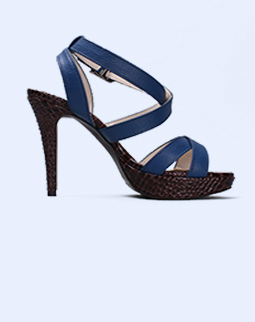
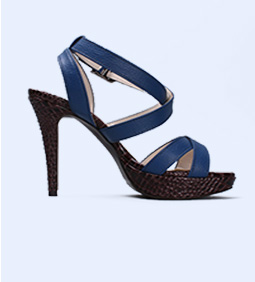
featured products

Changed region(s): [[0.0824, 0.0851, 0.9333, 0.7376]]

diff --git a/css/style.css b/css/style.css
@@ -1,58 +1,65 @@
-*{
+* {
     box-sizing: border-box;
 }
 
-*,
+/* *,
 *::before,
-*::after{
+*::after {
     box-sizing: inherit;
-}
+} */
 
-.wrapper{
+.wrapper {
     width: 1170px;
     margin: 0 auto;
+    padding: 0;
     background-color: khaki;
 }
 
-body{
-    font-family: 'Roboto', 'Arial', sans-serif;
-    text-transform: uppercase;
-    letter-spacing: -0.02em;   /* VA в фотошопе -20 */
+.clearfix::after{
+    display: table;
+    content: "";
+    clear: both;
 }
 
-.navigation-menu{
-    padding: 36px 30px;
+body {
+    font-family: 'Roboto', 'Arial', sans-serif;
+    text-transform: uppercase;
+    letter-spacing: -0.02em; /* VA в фотошопе -20ед */
+}
+
+.navigation-menu {
+    padding: 36px 30px 0;
     margin: 0;
 }
 
-.navigation-item:nth-child(1){
+.navigation-item:nth-child(1) {
     margin-left: 10px;
     margin-right: 35px;
 }
 
-.navigation-item:nth-child(2){
+.navigation-item:nth-child(2) {
     margin-right: 38px;
 }
 
-.navigation-item:nth-child(3){
+.navigation-item:nth-child(3) {
     margin-right: 32px;
 }
 
-.navigation-item:nth-child(4){
+.navigation-item:nth-child(4) {
     margin-right: 28px;
 }
 
-.navigation-item:nth-child(5){
+.navigation-item:nth-child(5) {
     margin-right: 34px;
 }
 
-.site-logo{
+.site-logo {
     float: left;
     margin: 0;
     padding: 0;
 }
 
-.site-name{
+.site-name {
     margin: 0;
     padding: 0;
     font-weight: 300;
@@ -61,21 +68,22 @@ body{
     color: #555252;
 }
 
-h1::first-letter{
+h1::first-letter {
     font-weight: 900;
     color: #1abc9c;
 }
 
-.navigation-list{
+.navigation-list {
     float: right;
     margin: 12px auto;
     padding: 0;
 }
 
-.navigation-item{
+.navigation-item {
     float: left;
 }
-.navigation-item a{
+
+.navigation-item a {
     font-family: 'Open Sans', 'Arial', sans-serif;
     color: #0f0101;
     font-size: 14px;
@@ -84,105 +92,146 @@ h1::first-letter{
 
 }
 
-.navigation-item a:hover{
+.navigation-item a:hover {
     color: #1abc9c;
 }
 
-.featured-products{
-    margin: 0 30px;
+.header{
+    margin-bottom: 96px;
 }
 
-.product-block{
+section{
+    padding: 0 30px;
+}
+
+.product-block {
     float: left;
     margin-right: 30px;
 }
 
-.product-block:nth-child(-n+5){
+.product-block:nth-child(-n+5) {
     margin-bottom: 30px;
 }
 
-.product-block:nth-child(4n+1){
+.product-block:nth-child(4n+1) {
     margin-right: 0;
 }
 
-.product-block p{
+.product-block p {
     font-size: 18px;
     font-weight: 900;
     line-height: 32px;
-    /* color: #ffffff; */
+    color: #ffffff;
 }
 
-h2{
+.product-block img{
+    height: 100%;;
+    width: 100%;
+}
+
+.product-item{
+    float: left;
+    margin: 0;
+    width: 201px;
+    height: 40px;
+    padding-top: 5px;
+    padding-left: 13px;
+    background-color: #323232;
+}
+
+.price{
+    float: right;
+    margin: 0;
+    width: 54px;
+    height: 40px;
+    padding-top: 5px;
+    padding-left: 12px;
+    background-color: #8c8c8c;
+}
+
+.product-block:hover .product-item{
+    background-color: #1abc9c;
+}
+
+.product-block:hover .price{
+    background-color: #7fd9c7;
+}
+
+.product-block:hover{
+    cursor: pointer;
+}
+
+h2 {
+    text-align: center;
+    margin: 0 auto;
     font-size: 48px;
     line-height: 32px;
     font-weight: 900;
 }
 
-a{
+a {
     text-decoration: none;
     display: block;
 }
 
-.featured-products h2{
+.featured-products h2 {
     color: #515151;
 }
 
-.latest-news h2{
+.featured-products h2::after{
+    content: "";
+    display: block;
+    width: 164px;
+    height: 7px;
+    background-color: #1abc9c;
+    margin: 28px auto 8px auto;
+    padding: 0;
+}
+
+.latest-news h2 {
     color: #555252
 }
 
-ul{
+ul {
     list-style-type: none;
 }
-  
-  img{
-    display: block;
-    min-height: 100%;
-    height: auto;
-  }
-  
-  p{
-    /* display: inline-block; */
-  }
 
-  .articles{
+img {
+    display: block;
+    /* min-height: 100%;
+    height: auto; */
+}
+
+.articles {
     font-family: 'Open Sans', 'Arial', sans-serif;
     color: #555252;
-  }
+}
 
-   h3{
-       font-weight: 600;
-       font-size: 18px;
-       line-height: 26px;
-       text-transform: none;   
-   }
+h3 {
+    font-weight: 600;
+    font-size: 18px;
+    line-height: 26px;
+    text-transform: none;
+}
 
-   .articles p{
-       font-weight: 400;
-       font-size: 14px;
-       line-height: 26px;
-       text-transform: none;
-   }
+.articles p {
+    font-weight: 400;
+    font-size: 14px;
+    line-height: 26px;
+    text-transform: none;
+}
 
-   .button-link{
+.button-link {
     font-family: 'Open Sans', 'Arial', sans-serif;
     font-size: 16px;
     line-height: 26px;
     font-weight: 300;
     color: #ffffff;
-   }
+}
 
-   button{
-       background: #1abc9c;
-       border-radius: 3px;
-       display: block;
-       border: 1px solid #1abc9c;
-   }
-
-   .clearfix::after{
-       display: table;
-       content: "";
-       clear: both;
-
-   }
-   
+button {
+    background: #1abc9c;
+    border-radius: 3px;
+    display: block;
+    border: 1px solid #1abc9c;
+}

diff --git a/index.html b/index.html
@@ -13,7 +13,7 @@
 </head>
 
 <body>
-    <header class="wrapper">
+    <header class="header wrapper">
         <nav class="navigation-menu clearfix">
             <a class="site-logo" href="index.html">
                 <h1 class="site-name">Mart</h1>
@@ -46,43 +46,43 @@
         <section class="featured-products clearfix">
             <h2>featured products</h2>
 
-            <div class="product-block">
-                <img src="images/product1.jpg" alt="blue tshirt" width="255" height="322">
+            <div class="product-block clearfix">
+                <img src="images/product1.jpg" alt="blue tshirt" width="255" height="282">
                 <p class="product-item">blue tshirt</p>
                 <p class="price">$26</p>
             </div>
             <div class="product-block">
-                <img src="images/product2.jpg" alt="woman shirt" width="255" height="283">
+                <img src="images/product2.jpg" alt="woman shirt" width="255" height="282">
                 <p class="product-item">woman shirt</p>
                 <p class="price">$31</p>
             </div>
             <div class="product-block">
-                <img src="images/product9.jpg" alt="yellow tshort" width="255" height="283">
+                <img src="images/product9.jpg" alt="yellow tshort" width="255" height="282">
                 <p class="product-item">yellow tshort</p>
                 <p class="price">$21</p>
             </div>
             <div class="product-block">
-                <img src="images/product4.jpg" alt="cool lingerie" width="255" height="283">
+                <img src="images/product4.jpg" alt="cool lingerie" width="255" height="282">
                 <p class="product-item">cool lingerie</p>
                 <p class="price">$56</p>
             </div>
             <div class="product-block">
-                <img src="images/product3.jpg" alt="blue tshirt" width="255" height="283">
+                <img src="images/product3.jpg" alt="blue tshirt" width="255" height="282">
                 <p class="product-item">blue tshirt</p>
                 <p class="price">$26</p>
             </div>
             <div class="product-block">
-                <img src="images/product5.jpg" alt="woman shirt" width="255" height="283">
+                <img src="images/product5.jpg" alt="woman shirt" width="255" height="282">
                 <p class="product-item">woman shirt</p>
                 <p class="price">$31</p>
             </div>
             <div class="product-block">
-                <img src="images/product6.jpg" alt="yellow tshirt" width="255" height="283">
+                <img src="images/product6.jpg" alt="yellow tshirt" width="255" height="282">
                 <p class="product-item">yellow tshirt</p>
                 <p class="price">$21</p>
             </div>
             <div class="product-block">
-                <img src="images/product8.jpg" alt="cool lingerie" width="255" height="283">
+                <img src="images/product8.jpg" alt="cool lingerie" width="255" height="282">
                 <p class="product-item">cool lingerie</p>
                 <p class="price">$56</p>
             </div>
